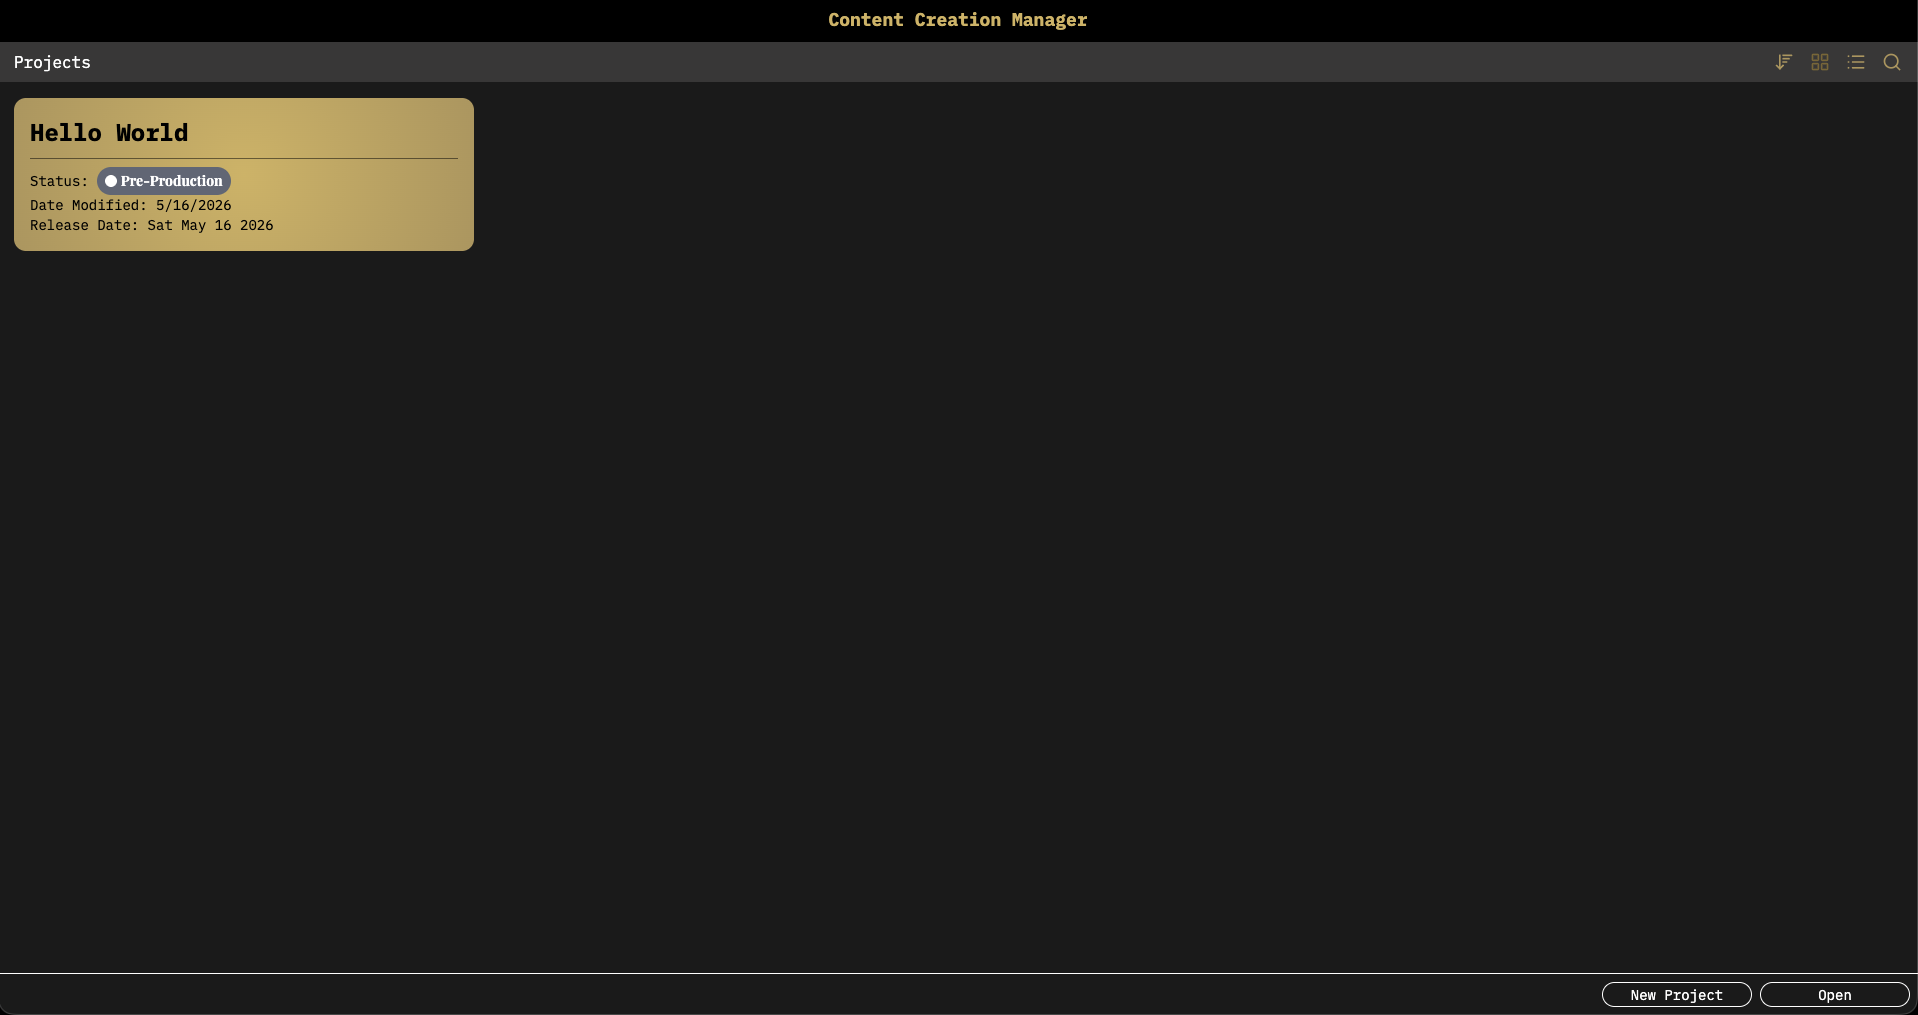
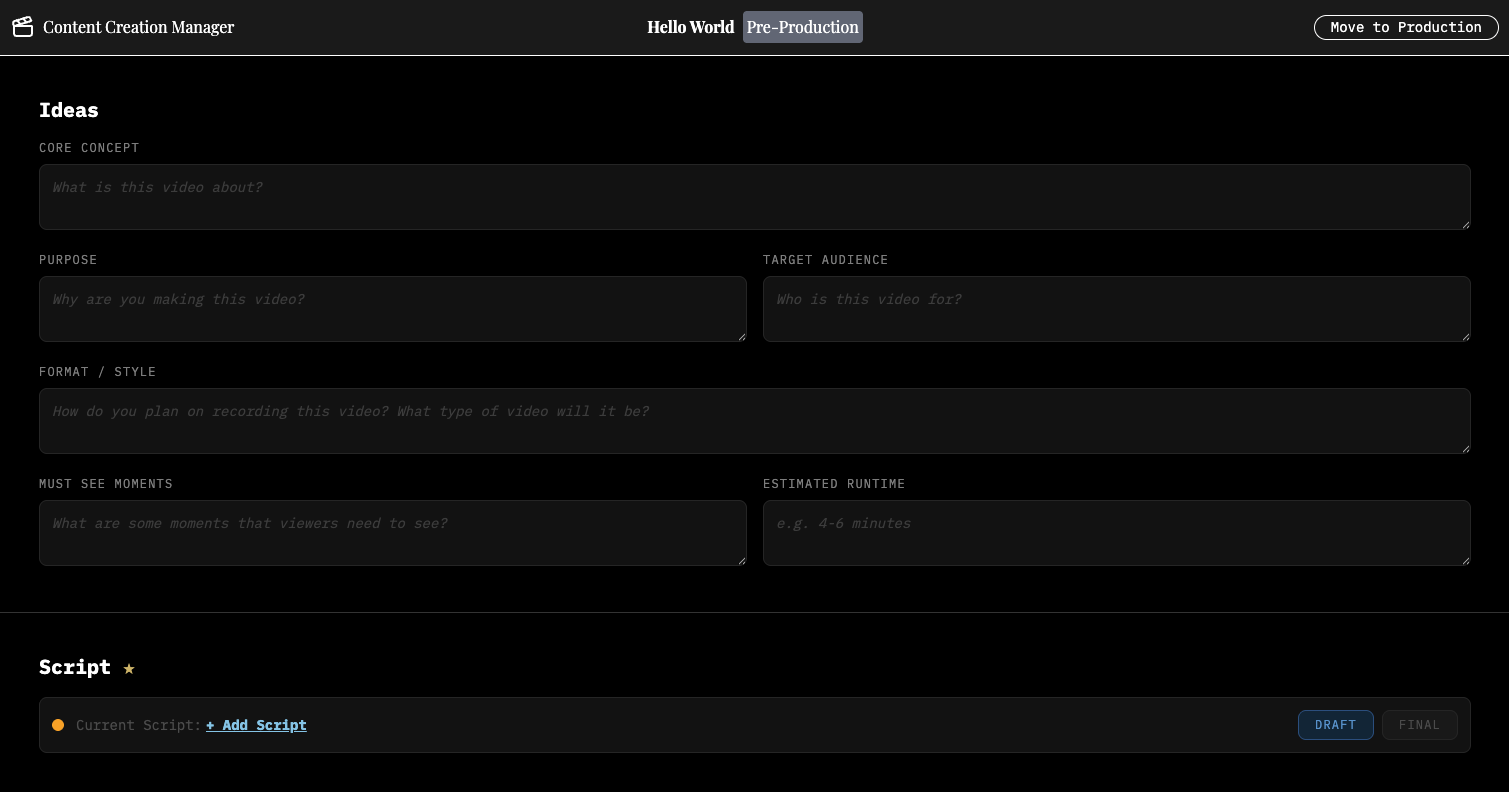
Finished the experiences and projects sections

diff --git a/src/components/DetailCard.tsx b/src/components/DetailCard.tsx
@@ -1,5 +1,5 @@
 import { motion } from 'motion/react'
-import { ChevronLeft } from 'lucide-react'
+import { ChevronLeft, Globe } from 'lucide-react'
 import { cn } from '@/lib/utils'
 
 interface DetailCardProps {
@@ -8,6 +8,8 @@ interface DetailCardProps {
   description: string
   skills: string[]
   onBack: () => void
+  projectUrl?: string
+  href?: string
   className?: string
 }
 
@@ -17,6 +19,8 @@ export function DetailCard({
   description,
   skills,
   onBack,
+  projectUrl,
+  href,
   className,
 }: DetailCardProps) {
   return (
@@ -72,14 +76,42 @@ export function DetailCard({
       {/* Content area */}
       <div className="flex flex-col gap-3 px-[25px] pt-5 pb-6">
         {/* Title */}
-        <h2
-          className={cn(
-            'text-[32px] font-bold leading-tight',
-            'text-white',
-          )}
-        >
-          {title}
-        </h2>
+        <div className="flex items-center justify-between gap-3">
+          <h2
+            className={cn(
+              'text-[32px] font-bold leading-tight',
+              'text-white',
+            )}
+          >
+            {title}
+          </h2>
+          <div className="flex items-center gap-2 shrink-0">
+            {projectUrl && (
+              <a
+                href={projectUrl}
+                target="_blank"
+                rel="noopener noreferrer"
+                aria-label="Live site"
+                className="text-white/60 hover:text-white transition-colors"
+              >
+                <Globe className="h-6 w-6" />
+              </a>
+            )}
+            {href && (
+              <a
+                href={href}
+                target="_blank"
+                rel="noopener noreferrer"
+                aria-label="GitHub repository"
+                className="text-white/60 hover:text-white transition-colors"
+              >
+                <svg viewBox="0 0 24 24" className="h-6 w-6" fill="currentColor" aria-hidden="true">
+                  <path d="M12 2C6.477 2 2 6.484 2 12.017c0 4.425 2.865 8.18 6.839 9.504.5.092.682-.217.682-.483 0-.237-.008-.868-.013-1.703-2.782.605-3.369-1.343-3.369-1.343-.454-1.158-1.11-1.466-1.11-1.466-.908-.62.069-.608.069-.608 1.003.07 1.531 1.032 1.531 1.032.892 1.53 2.341 1.088 2.91.832.092-.647.35-1.088.636-1.338-2.22-.253-4.555-1.113-4.555-4.951 0-1.093.39-1.988 1.029-2.688-.103-.253-.446-1.272.098-2.65 0 0 .84-.27 2.75 1.026A9.564 9.564 0 0112 6.844c.85.004 1.705.115 2.504.337 1.909-1.296 2.747-1.027 2.747-1.027.546 1.379.202 2.398.1 2.651.64.7 1.028 1.595 1.028 2.688 0 3.848-2.339 4.695-4.566 4.942.359.31.678.921.678 1.856 0 1.338-.012 2.419-.012 2.747 0 .268.18.58.688.482A10.019 10.019 0 0022 12.017C22 6.484 17.522 2 12 2z" />
+                </svg>
+              </a>
+            )}
+          </div>
+        </div>
 
         {/* Description */}
         <p

diff --git a/src/components/ProjectsCard.tsx b/src/components/ProjectsCard.tsx
@@ -7,6 +7,7 @@ import { DetailCard } from '@/components/DetailCard'
 interface ProjectItem {
   title: string
   image: string
+  projectUrl?: string
   href: string
   description: string
   skills: string[]
@@ -16,57 +17,60 @@ const PROJECTS: ProjectItem[] = [
   {
     title: 'Content Creation Manager',
     image: '/images/projects/content_creation_manager.png',
-    href: 'https://github.com/anishthebud',
+    href: 'https://github.com/anishthebud/content-creation-manager',
     description:
-      'Electron desktop application for managing video content production pipelines with end-to-end pre-production, production, and distribution workflows.',
+      'Full-stack desktop application for managing video content production pipeline with comprehensive workflow including pre-production, production, post-poroduction and distribution.',
     skills: ['Electron', 'React', 'JavaScript', 'MongoDB', 'Tailwind CSS', 'Vite', 'TanStack Router', 'IPC', 'Cross-Platform'],
   },
   {
-    title: 'Steam Game Recommender',
+    title: 'Steam VG Personality Quiz',
     image: '/images/projects/steam-vg-personality-quiz.jpeg',
-    href: 'https://github.com/anishthebud',
+    projectUrl: 'https://master.d2pkiqyt9q31d2.amplifyapp.com/',
+    href: 'https://github.com/anishthebud/game_recommendation_engine',
     description:
-      'Full-stack ML quiz that recommends Steam games from a catalog of over 80,000 titles using cosine-similarity filtering and OpenAI-generated adaptive questions.',
+      'Full-stack web application that recommends Steam games from a catalog of over 80,000 titles using cosine-similarity filtering and OpenAI-generated adaptive questions.',
     skills: ['Python', 'FastAPI', 'React', 'scikit-learn', 'OpenAI API', 'AWS', 'Docker', 'CI/CD'],
   },
   {
     title: 'Look At Me',
     image: '/images/projects/look_at_me.png',
-    href: 'https://github.com/anishthebud',
+    projectUrl: 'https://chromewebstore.google.com/detail/look-at-me/gmdiakgkdgohhfppabhcppmnkcpcgjkm',
+    href: 'https://github.com/anishthebud/look-at-me',
     description:
-      'Published Chrome extension for task focus and productivity, featuring real-time task tracking across browser sessions with a custom new-tab override page.',
+      'Published Chrome extension for task focus and productivity, featuring real-time task tracking across browser sessions with a custom new tab page for easy usability.',
     skills: ['TypeScript', 'React', 'Chrome Extension APIs', 'Service Workers', 'Vite', 'Browser Storage', 'Custom Hooks'],
   },
   {
     title: 'YouTube-VoiceOver',
     image: '/images/placeholder.png',
-    href: 'https://github.com/anishthebud',
+    href: 'https://github.com/anishthebud/YouTube-VoiceOver',
     description:
-      'Chrome extension paired with a Node.js backend that overlays user-recorded voiceovers onto YouTube videos using FFmpeg compositing.',
+      'Chrome extension paired with a Node.js backend that overlays user-recorded voiceovers onto YouTube videos using FFmpeg composition.',
     skills: ['JavaScript', 'Node.js', 'Express', 'FFmpeg', 'yt-dlp', 'MediaRecorder API', 'REST APIs', 'CORS'],
   },
   {
     title: 'Traffic Accident Analyzer',
     image: '/images/projects/traffic_accident_analyzer.png',
-    href: 'https://github.com/anishthebud',
+    projectUrl: 'https://github.gatech.edu/pages/vpatra3/ML-Traffic-Analyzer/',
+    href: 'https://github.gatech.edu/vpatra3/ML-Traffic-Analyzer',
     description:
-      'Data analysis and visualization tool for exploring traffic accident patterns, producing interactive charts and county-level geospatial maps.',
-    skills: ['Python', 'Pandas', 'NumPy', 'Matplotlib', 'Plotly', 'Data Visualization', 'Geospatial Mapping', 'Machine Learning'],
+      'Team project focused on building a data analysis and visualization tool for exploring traffic accident patterns. My focus was on developing the data/feature engineering pipeline.',
+    skills: ['Python', 'Pandas', 'NumPy', 'Matplotlib', 'Plotly', 'Data Visualization', 'Machine Learning'],
   },
   {
     title: 'Braille Buddy',
     image: '/images/placeholder.png',
-    href: 'https://github.com/anishthebud',
+    href: 'https://github.com/anishthebud/brailleBuddy',
     description:
-      'Native Android accessibility app enabling two-way communication between deaf/blind and sighted/hearing users via a custom Braille keyboard and vibration patterns.',
-    skills: ['Java', 'Android SDK', 'Google Cloud', 'Speech Recognition', 'Material Design', 'Multi-threading', 'Accessibility'],
+      'Hackathon project focused on building a native Android accessibility app enabling two-way communication between deaf/blind and sighted/hearing users via a custom Braille keyboard and vibration patterns. My focus was on developing the user experience and the frontend for the app.',
+    skills: ['Java', 'Android SDK', 'Google Cloud', 'UI/UX Design', 'Speech Recognition', 'Material Design', 'Multi-threading', 'Accessibility'],
   },
   {
     title: 'Confido',
-    image: '/images/projects/confido.png',
-    href: 'https://github.com/anishthebud',
+    image: '/images/placeholder.png',
+    href: 'https://github.com/anishthebud/confido',
     description:
-      'AI-powered public speaking coach built at a hackathon. Full-stack web app with gamified scoring, an interactive AI avatar, and real-time feedback on confidence and filler words.',
+      'AI-powered public speaking coach built at a hackathon. Full-stack web app with gamified scoring, an interactive AI avatar, and real-time feedback on confidence and filler words. My focus was on developing the user experience, gamification process, and managing the database.',
     skills: ['SvelteKit', 'TypeScript', 'Supabase', 'LLM Integration', 'Speech-to-Text', 'Text-to-Speech', 'Stable Diffusion', 'Pinata/IPFS'],
   },
 ]
@@ -106,6 +110,8 @@ export function ProjectsCard({ className }: ProjectsCardProps) {
               image={selected.image}
               description={selected.description}
               skills={selected.skills}
+              projectUrl={selected.projectUrl}
+              href={selected.href}
               onBack={() => setSelected(null)}
             />
           </motion.div>

diff --git a/src/components/ExperienceCard.tsx b/src/components/ExperienceCard.tsx
@@ -14,14 +14,14 @@ interface ExperienceItem {
 const EXPERIENCES: ExperienceItem[] = [
   {
     title: 'GROWER',
-    image: '/images/experiences/grower.jpeg',
+    image: '/images/experiences/grower.png',
     description:
-      'Software Engineer in the Internet Intelligence Lab at Georgia Tech, researching correlations between power outages and internet disruptions. Built and maintained Python/Selenium scrapers deployed on AWS.',
+      'Software Engineer that partnered with the Internet Intelligence Lab, researching correlations between power outages and internet outages. Built and maintained Python/Selenium scrapers deployed on AWS.',
     skills: ['Python', 'Pandas', 'Selenium', 'Web Scraping', 'AWS', 'Docker', 'Matplotlib', 'Plotly', 'ETL Pipelines'],
   },
   {
     title: 'Georgia-Pacific',
-    image: '/images/experiences/georgia_pacific.jpeg',
+    image: '/images/experiences/georgia_pacific.png',
     description:
       'Product Fellow focused on redesigning the digital interface for GP PRO dispensers. Applied Agile methods, user research, and competitive analysis, then pitched feasibility and effectiveness to clients.',
     skills: ['UI/UX', 'Product Management', 'Agile Development', 'User Research', 'Competitive Analysis'],
@@ -35,7 +35,7 @@ const EXPERIENCES: ExperienceItem[] = [
   },
 ]
 
-const EXPERIENCE_CARD_BG = 'rgba(100, 26, 118, 0.85)'
+const EXPERIENCE_CARD_BG = 'rgba(60, 28, 133, 0.85)'
 
 interface ExperienceCardProps {
   className?: string